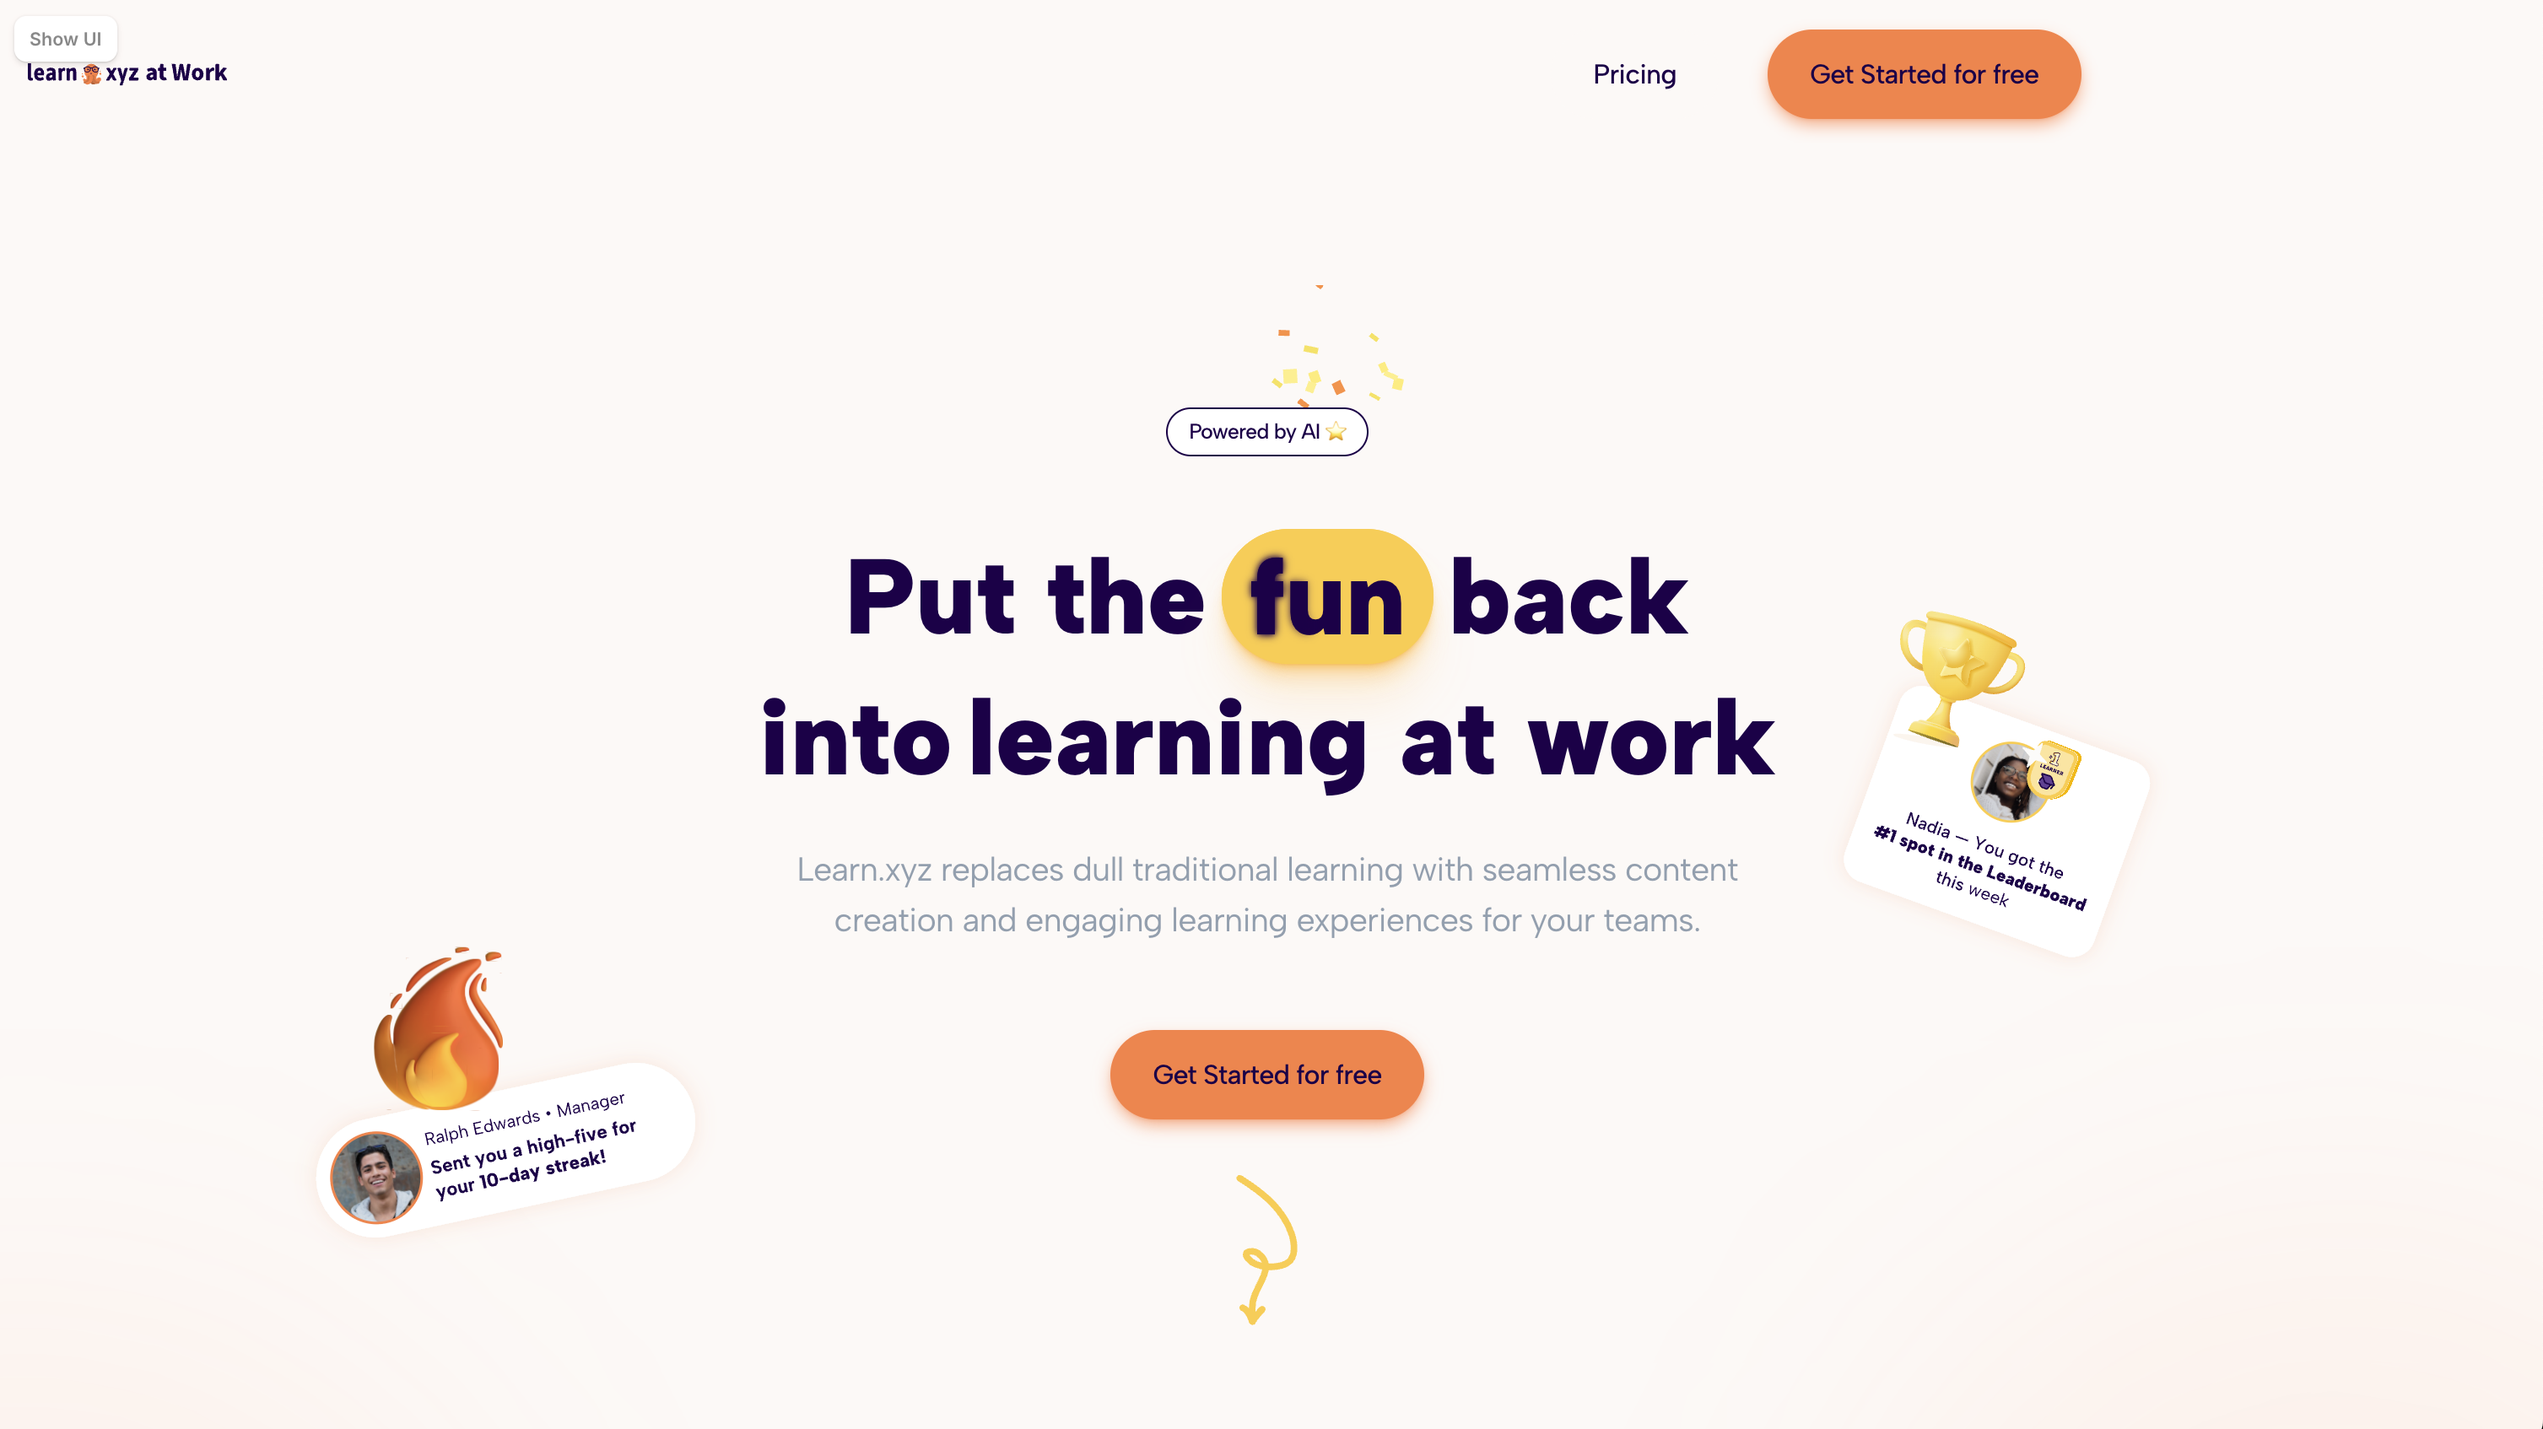
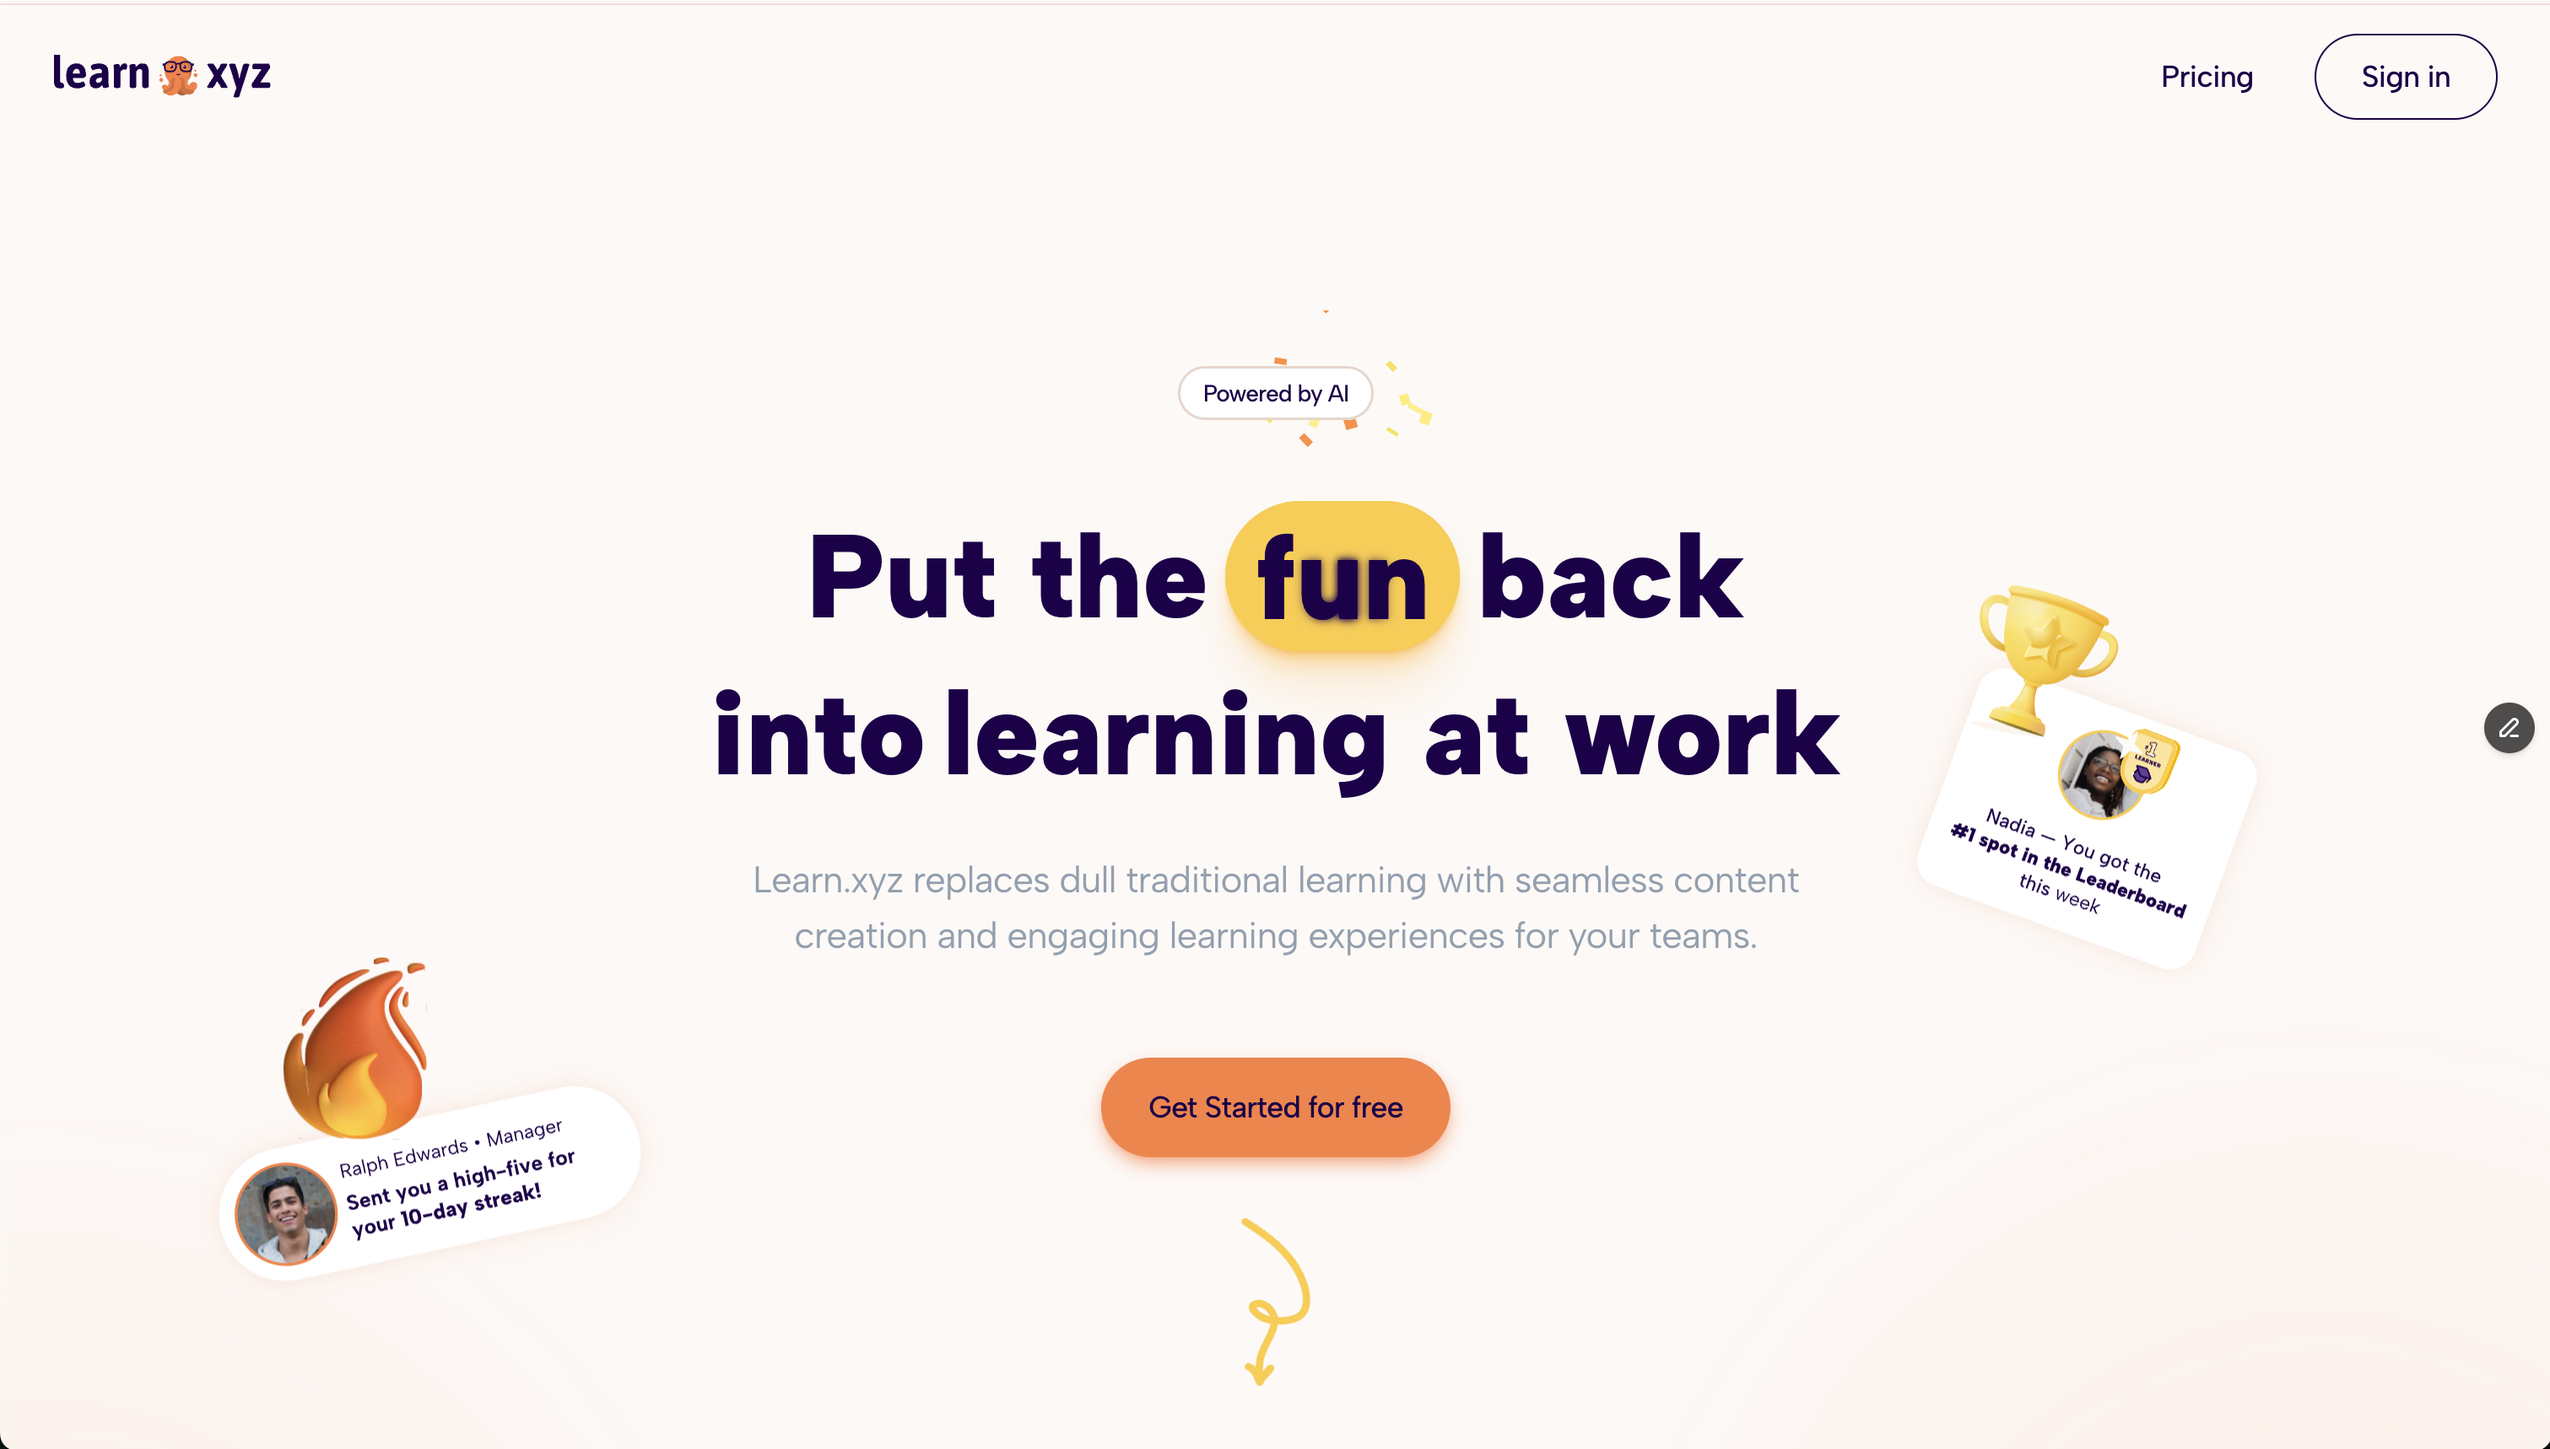
Fix Ambient OS card clipping + update Learn.xyz website screens
- Remove overflow-hidden from AmbientOSDemo so concept cards aren't clipped
- Remove overflow-hidden from gallery slide container for interactive slides
- Mobile concept panel now renders via portal as a full-screen bottom sheet
- Update Website 1 screenshot with new hero design
- Add Website 7 (BYOB — Bring Your Own Data) to website carousel

diff --git a/src/components/experiments/AmbientOSDemo.tsx b/src/components/experiments/AmbientOSDemo.tsx
@@ -1,6 +1,7 @@
 "use client";
 
 import { useRef, useEffect, useState, useCallback } from "react";
+import { createPortal } from "react-dom";
 
 /* ─────────────────────────────────────────────────────────────────────────────
    Monoline SVG icons — thin white strokes, futuristic/spatial feel
@@ -171,87 +172,6 @@ const STARS = Array.from({ length: 35 }, (_, i) => ({
   dur: 3 + seededRandom(i * 11) * 4,
   delay: seededRandom(i * 13) * 3,
 }));
-
-/* ─── Mobile concept panel ─── */
-function ConceptPanel({
-  orb,
-  onClose,
-}: {
-  orb: OrbDef;
-  onClose: () => void;
-}) {
-  const Icon = ICON_MAP[orb.id];
-  return (
-    <div
-      className="absolute inset-x-0 bottom-0 z-30 ambient-card-enter"
-      onClick={(e) => e.stopPropagation()}
-    >
-      <div
-        className="mx-3 mb-3 rounded-2xl px-5 py-4"
-        style={{
-          background: "rgba(15, 23, 42, 0.92)",
-          backdropFilter: "blur(24px)",
-          border: `1px solid ${orb.color}30`,
-          boxShadow: `0 -4px 30px rgba(0,0,0,0.5), 0 0 40px ${orb.color}10`,
-        }}
-      >
-        {/* Header row */}
-        <div className="mb-2.5 flex items-center justify-between">
-          <div className="flex items-center gap-2.5">
-            <div
-              className="flex h-8 w-8 items-center justify-center rounded-lg"
-              style={{ background: `${orb.color}25` }}
-            >
-              {Icon && <Icon size={16} />}
-            </div>
-            <span
-              className="text-[14px] font-semibold"
-              style={{ color: orb.color }}
-            >
-              {orb.label}
-            </span>
-          </div>
-          <button
-            onClick={onClose}
-            className="flex h-7 w-7 items-center justify-center rounded-full bg-white/10 text-white/50"
-          >
-            <svg width="12" height="12" viewBox="0 0 16 16" fill="none">
-              <path d="M4 4L12 12M4 12L12 4" stroke="currentColor" strokeWidth="2" strokeLinecap="round" />
-            </svg>
-          </button>
-        </div>
-
-        {/* Concept */}
-        <p className="text-[13px] leading-[1.6] text-white/60">
-          {orb.concept}
-        </p>
-
-        {/* Connected to */}
-        <div className="mt-3 flex items-center gap-1.5 border-t border-white/[0.06] pt-2.5">
-          <span className="text-[9px] uppercase tracking-wider text-white/25">
-            Connected to
-          </span>
-          {orb.connections.map((cId) => {
-            const c = ORBS.find((o) => o.id === cId);
-            if (!c) return null;
-            return (
-              <span
-                key={cId}
-                className="rounded-full px-2 py-0.5 text-[10px] font-medium"
-                style={{
-                  background: `${c.color}15`,
-                  color: `${c.color}99`,
-                }}
-              >
-                {c.label}
-              </span>
-            );
-          })}
-        </div>
-      </div>
-    </div>
-  );
-}
 
 /* ═══════════════════════════════════════════════════════════════════════════ */
 export function AmbientOSDemo({
@@ -487,7 +407,7 @@ export function AmbientOSDemo({
   return (
     <div
       ref={containerRef}
-      className={`relative h-full w-full select-none overflow-hidden ${className}`}
+      className={`relative h-full w-full select-none ${className}`}
       style={{
         perspective: mobile ? undefined : "800px",
         background:
@@ -774,12 +694,90 @@ export function AmbientOSDemo({
 
       </div>{/* close front depth layer */}
 
-      {/* ── Mobile: Bottom concept panel ── */}
-      {mobile && expandedOrbData && (
-        <ConceptPanel orb={expandedOrbData} onClose={() => setExpandedOrb(null)} />
-      )}
-
       </div>{/* close 3D scene */}
+
+      {/* ── Mobile: Full-screen bottom sheet via portal (escapes all overflow clips) ── */}
+      {mobile && expandedOrbData && typeof window !== "undefined" &&
+        createPortal(
+          <div
+            className="fixed inset-x-0 bottom-0 z-[260] ambient-card-enter"
+            onClick={(e) => e.stopPropagation()}
+          >
+            <div
+              className="mx-4 mb-4 rounded-2xl px-5 py-5"
+              style={{
+                background: "rgba(15, 23, 42, 0.95)",
+                backdropFilter: "blur(24px)",
+                WebkitBackdropFilter: "blur(24px)",
+                border: `1px solid ${expandedOrbData.color}30`,
+                boxShadow: `0 -4px 30px rgba(0,0,0,0.5), 0 0 40px ${expandedOrbData.color}10`,
+              }}
+            >
+              {/* Header row */}
+              <div className="mb-3 flex items-center justify-between">
+                <div className="flex items-center gap-3">
+                  <div
+                    className="flex h-10 w-10 items-center justify-center rounded-xl"
+                    style={{ background: `${expandedOrbData.color}25` }}
+                  >
+                    {(() => {
+                      const Icon = ICON_MAP[expandedOrbData.id];
+                      return Icon ? <Icon size={20} /> : null;
+                    })()}
+                  </div>
+                  <span
+                    className="text-[16px] font-semibold"
+                    style={{ color: expandedOrbData.color }}
+                  >
+                    {expandedOrbData.label}
+                  </span>
+                </div>
+                <button
+                  onClick={() => setExpandedOrb(null)}
+                  className="flex h-8 w-8 items-center justify-center rounded-full bg-white/10 text-white/50"
+                >
+                  <svg width="12" height="12" viewBox="0 0 16 16" fill="none">
+                    <path
+                      d="M4 4L12 12M4 12L12 4"
+                      stroke="currentColor"
+                      strokeWidth="2"
+                      strokeLinecap="round"
+                    />
+                  </svg>
+                </button>
+              </div>
+
+              {/* Concept */}
+              <p className="text-[14px] leading-[1.7] text-white/60">
+                {expandedOrbData.concept}
+              </p>
+
+              {/* Connected to */}
+              <div className="mt-3.5 flex items-center gap-2 border-t border-white/[0.06] pt-3">
+                <span className="text-[10px] uppercase tracking-wider text-white/25">
+                  Connected to
+                </span>
+                {expandedOrbData.connections.map((cId) => {
+                  const c = ORBS.find((o) => o.id === cId);
+                  if (!c) return null;
+                  return (
+                    <span
+                      key={cId}
+                      className="rounded-full px-2.5 py-1 text-[11px] font-medium"
+                      style={{
+                        background: `${c.color}15`,
+                        color: `${c.color}99`,
+                      }}
+                    >
+                      {c.label}
+                    </span>
+                  );
+                })}
+              </div>
+            </div>
+          </div>,
+          document.body,
+        )}
     </div>
   );
 }

diff --git a/src/components/immersive/learn-xyz/LearnData.ts b/src/components/immersive/learn-xyz/LearnData.ts
@@ -18,6 +18,7 @@ export const IMAGES = {
   website4: "/images/learn/website-4.png",
   website5: "/images/learn/website-5.png",
   website6: "/images/learn/website-6.png",
+  website7: "/images/learn/website-7.png",
 
   // Dashboard screenshots (real Figma exports)
   dashboard1: "/images/learn/web-dashboard-1.png",
@@ -406,6 +407,7 @@ export const WEBSITE = {
     { src: "website4" as const, alt: "Playful objection handling", caption: "You won't like Learn.xyz if..." },
     { src: "website5" as const, alt: "Industry-specific onboarding", caption: "Industry use cases" },
     { src: "website6" as const, alt: "Pricing page", caption: "Pricing" },
+    { src: "website7" as const, alt: "BYOB — bring your own data with AI learning engine", caption: "Bring Your Own Data" },
   ],
 };
 

diff --git a/src/components/experiments/AmbientOSGallery.tsx b/src/components/experiments/AmbientOSGallery.tsx
@@ -224,7 +224,7 @@ export function AmbientOSGallery({
         {/* Slide container */}
         <div
           className={`relative w-full rounded-2xl ${
-            slide.type === "interactive" ? "overflow-hidden" : "overflow-hidden"
+            slide.type === "interactive" ? "" : "overflow-hidden"
           } ${
             isMobile && slide.type === "interactive"
               ? "flex-1"
